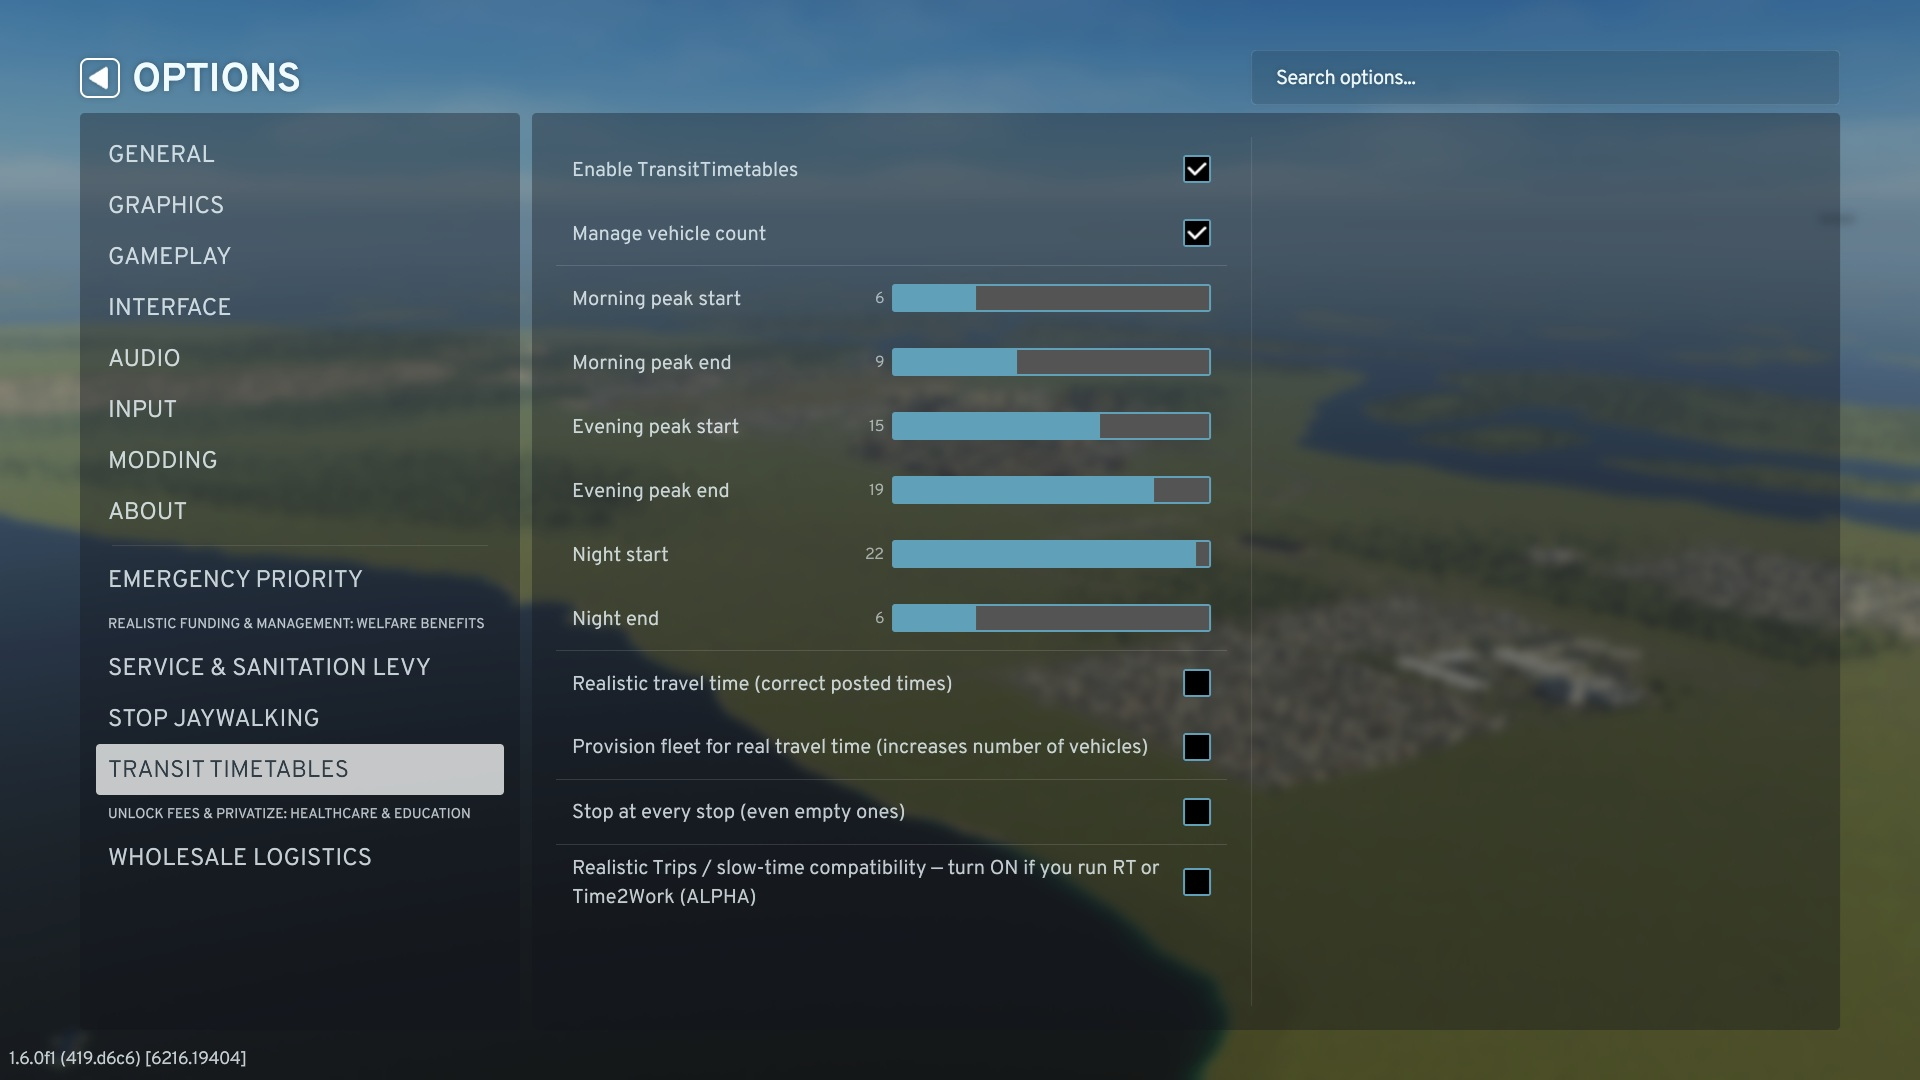
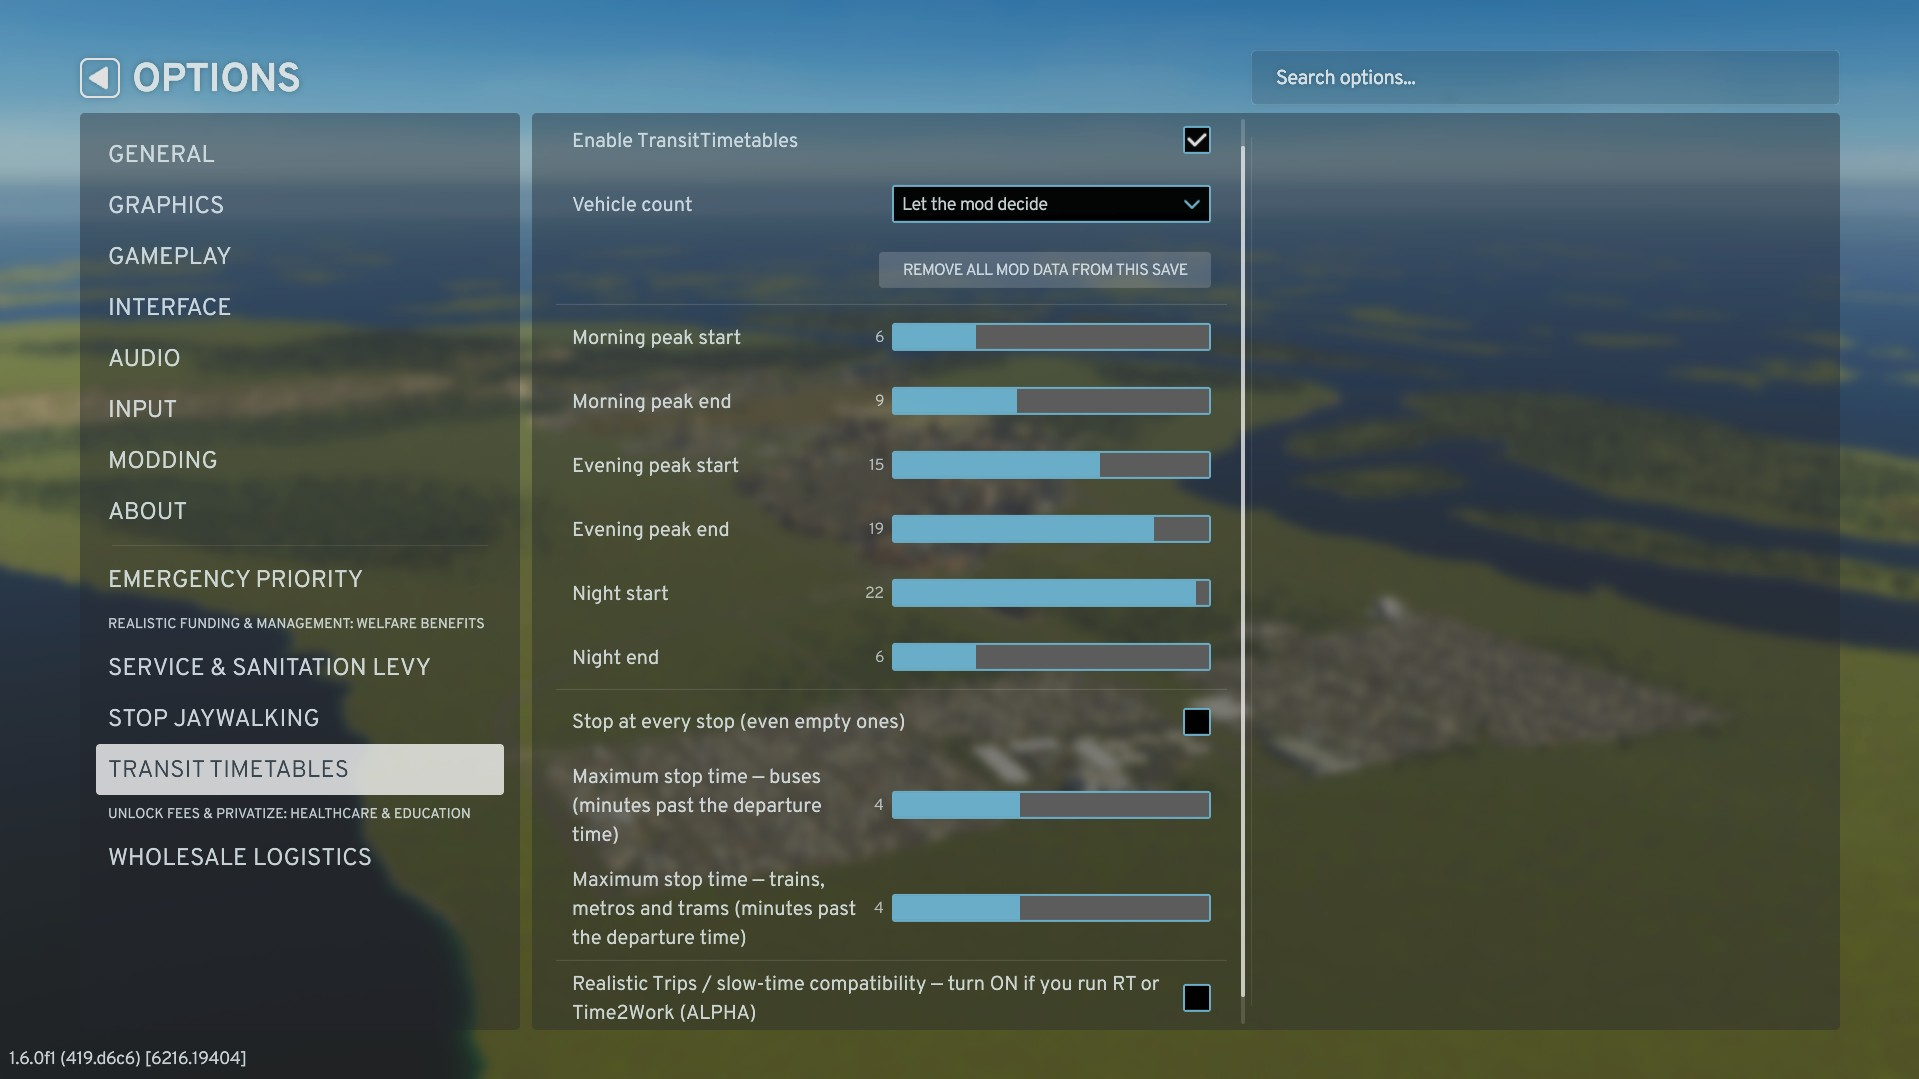
v0.5.2: stationary-vehicle wording, and the curated screenshot set
The vehicle row reported an early HELD vehicle as "2 min early" while the player
could see it standing still in a station, which reads as a fault. It is the mod
working: an early vehicle is held at the stop until its scheduled departure.

Reported with exact numbers: clock 10:00, departure 10:15, bus sitting at the
stop, panel said "15 minutes early".

While Boarding, Target is the stop the vehicle is SITTING AT, not the next one -
see the drain's lapServed test ("a bus whose current target is NOT the terminus
has left the terminus"). So the scheduled minute means "when it departs from
here", and the "due at its next stop" clause was describing the current stop.
That clause is now suppressed while boarding, and an early held vehicle gets its
own sentence instead of a deviation figure.

Screenshots replaced with the curated set from the user's art folder. SS1, SS2,
SS4 and ss17 are explicitly rejected and their files deleted; the shipped four
are the wide banner plus the Bus, Train and Options captures.

diff --git a/UI/src/mods/transit-panel.tsx b/UI/src/mods/transit-panel.tsx
@@ -197,7 +197,7 @@ const RealInfo = ({ raw }: { raw: string }) => {
 const VehicleSchedule = ({ raw }: { raw: string }) => {
     const t = useT();
     if (!raw) return null;
-    let d: { onTt: boolean; late: number; next: number; stage: number };
+    let d: { onTt: boolean; brd?: boolean; late: number; next: number; stage: number };
     try { d = JSON.parse(raw); } catch { return null; }
     if (!d) return null;
 
@@ -217,17 +217,24 @@ const VehicleSchedule = ({ raw }: { raw: string }) => {
         return (h < 10 ? "0" : "") + h + ":" + (mm < 10 ? "0" : "") + mm;
     };
     const vars = { n: Math.abs(late), at: hm(d.next) };
-    const status =
-        late > 0 ? t("vehLate", "Running {n} min late.", vars)
-        : late < 0 ? t("vehEarly", "Running {n} min early.", vars)
-        : t("vehOnTime", "Running on time.", vars);
+    // STATIONARY AT A STOP is a different sentence, not a variant of the same one. While boarding, the scheduled
+    // minute is this stop's DEPARTURE, and an early vehicle is being held here on purpose to keep the timetable.
+    // Saying "running 2 min early" about a vehicle the player can see standing still reads as a fault; it is the
+    // mod working. Reported from a station: "it said the vehicle is x minutes early while sitting in the station".
+    const status = d.brd
+        ? (late < 0 ? t("vehHolding", "Waiting here until {at}, its scheduled departure.", vars)
+           : late > 0 ? t("vehAtStopLate", "At this stop, {n} min behind its {at} departure.", vars)
+           : t("vehAtStop", "At this stop, departing {at}.", vars))
+        : (late > 0 ? t("vehLate", "Running {n} min late.", vars)
+           : late < 0 ? t("vehEarly", "Running {n} min early.", vars)
+           : t("vehOnTime", "Running on time.", vars));
     // Same honesty as the line panel: a line still learning its loop should not present a firm minute.
     const caveat = d.stage < 2
         ? " " + t("vehRefining", "This line is still measuring its real loop, so these times will shift.", vars)
         : "";
     return (
         <div style={{ fontSize: "11rem", color: "rgb(224, 186, 120)", padding: "4rem 14rem 8rem", lineHeight: 1.35 }}>
-            {status + " " + t("vehNextStop", "Due at its next stop at {at}.", vars) + caveat}
+            {status + (d.brd ? "" : " " + t("vehNextStop", "Due at its next stop at {at}.", vars)) + caveat}
         </div>
     );
 };

diff --git a/TransitParamsUISystem.cs b/TransitParamsUISystem.cs
@@ -648,8 +648,17 @@ namespace TransitTimetables
             if (!EntityManager.GetComponentData<TimetableSchedule>(line).m_Enabled) return "";
 
             bool onTt = m_Dispatch.TryVehicleSchedule(sel, out int lateMin, out int nextMin, out int stage);
+            // Is it STATIONARY at a stop right now? While Boarding, Target is the stop it is sitting at, not the next
+            // one — see the drain's lapServed test ("a bus whose current target is NOT the terminus has left the
+            // terminus"). So the same scheduled minute means "when it departs from here" rather than "when it arrives
+            // there", and an EARLY vehicle at a stop is not drifting, it is being HELD by the mod to keep the
+            // timetable. Reported as "2 min early" while visibly standing still, that reads as a fault; it is the
+            // whole point of the mod. The panel needs the flag to say which of those it is.
+            bool boarding = (EntityManager.GetComponentData<Game.Vehicles.PublicTransport>(sel).m_State
+                             & Game.Vehicles.PublicTransportFlags.Boarding) != 0;
             var sb = new StringBuilder();
             sb.Append("{\"onTt\":").Append(onTt ? "true" : "false")
+              .Append(",\"brd\":").Append(boarding ? "true" : "false")
               .Append(",\"late\":").Append(lateMin)
               .Append(",\"next\":").Append(nextMin)
               .Append(",\"stage\":").Append(stage).Append('}');

diff --git a/Translations.cs b/Translations.cs
@@ -65,6 +65,9 @@ namespace TransitTimetables
             { "ui.notTimetabled", "not timetabled" },
             { "ui.estimatedTimes", "estimated, not yet measured" },
             { "ui.vehNotOnTimetable", "Not yet on the timetable. It picks up its schedule when it first reaches the terminus." },
+            { "ui.vehHolding", "Waiting here until {at}, its scheduled departure." },
+            { "ui.vehAtStopLate", "At this stop, {n} min behind its {at} departure." },
+            { "ui.vehAtStop", "At this stop, departing {at}." },
             { "ui.vehLate", "Running {n} min late." },
             { "ui.vehEarly", "Running {n} min early." },
             { "ui.vehOnTime", "Running on time." },
